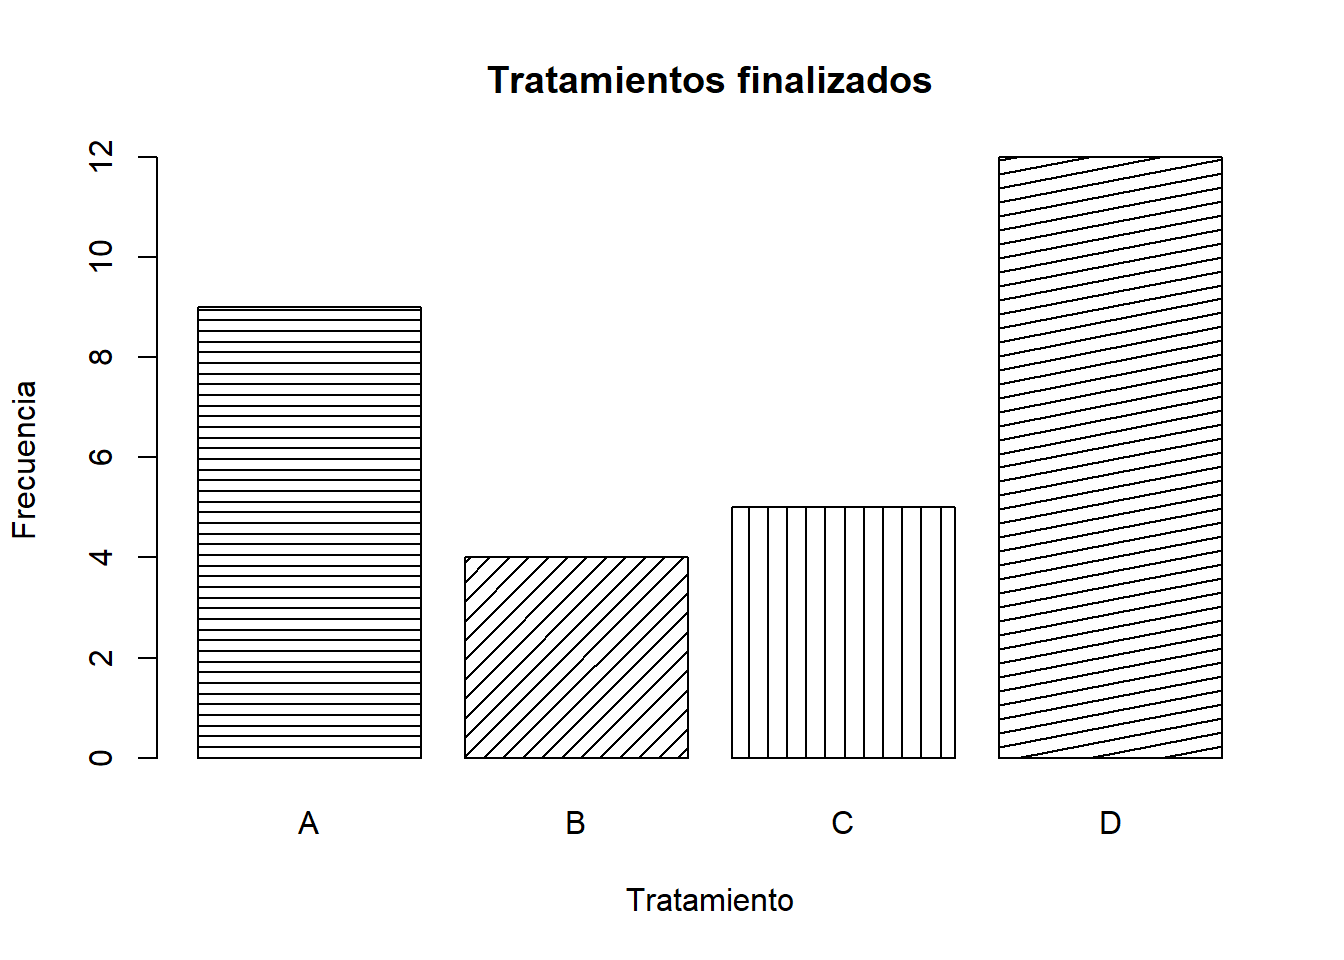
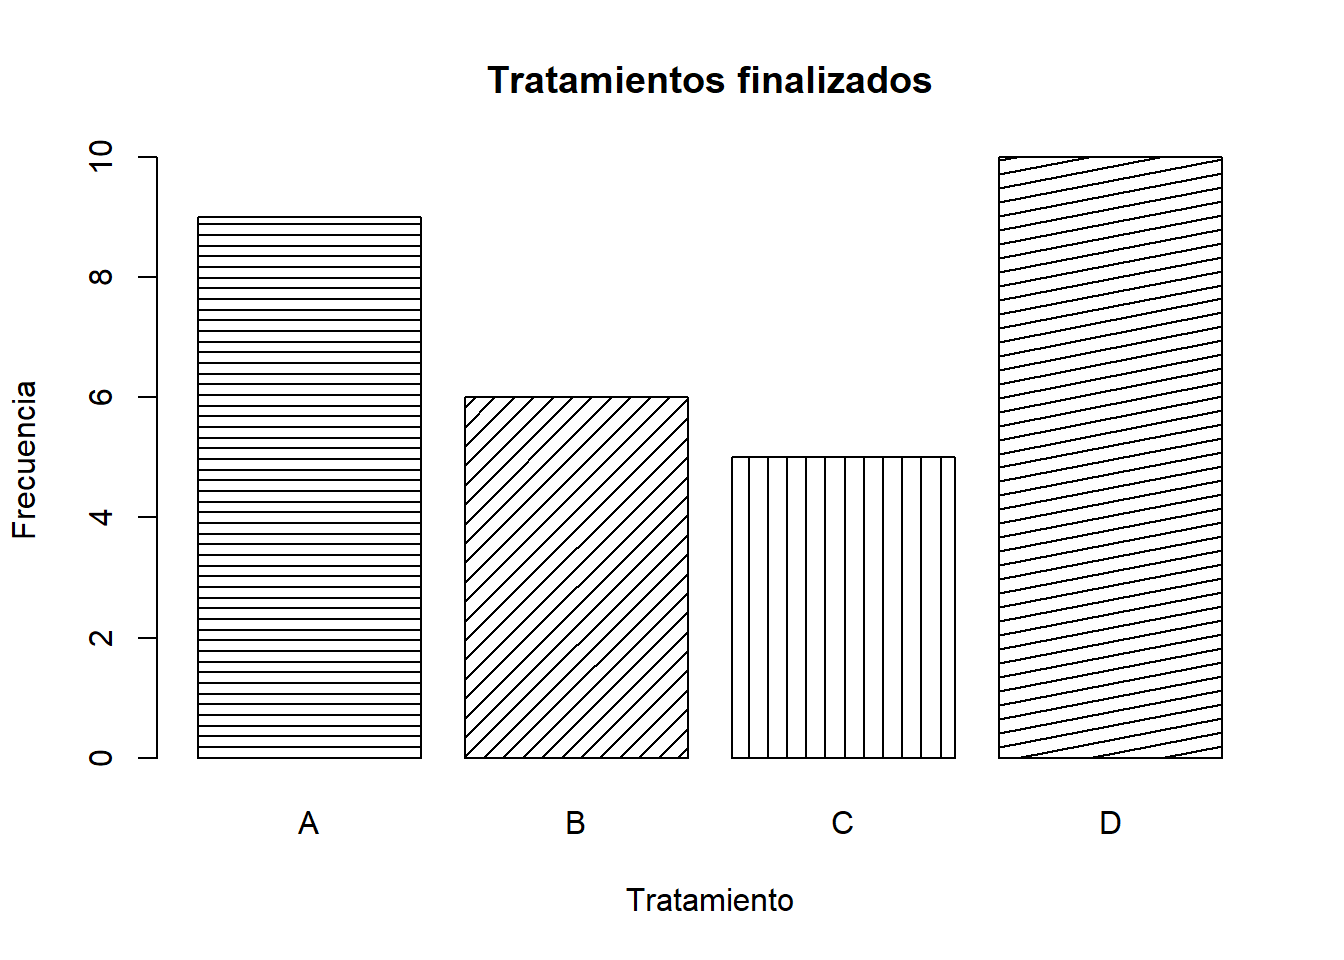
mudanca nas figuras postagem Eliana

diff --git a/content/blog/2022-05-24-mejor-digalo-con-graficos/index.html b/content/blog/2022-05-24-mejor-digalo-con-graficos/index.html
@@ -47,7 +47,7 @@ frec.tratam &lt;- table(tratamiento)
 frec.tratam</code></pre>
 <pre><code>## tratamiento
 ##  A  B  C  D 
-##  9  4  5 12</code></pre>
+##  9  6  5 10</code></pre>
 <p>Por último graficamos.</p>
 <pre class="r"><code>barplot(frec.tratam)</code></pre>
 <p><img src="{{< blogdown/postref >}}index_files/figure-html/unnamed-chunk-2-1.png" width="672" /></p>
@@ -174,5 +174,5 @@ ggplot(datos) + # defino el data set con el que voy a trabajar
 <div id="y-fín" class="section level2">
 <h2>¡Y FÍN!</h2>
 <p>Pero cuéntanos, ¿Te gusta trabajar con gráficos? ¿Cuál es tu favorito? ¿Cuál quieres ver aquí en el blog? ¡Deja la sugerencia en nuestras redes sociales (<a href="https://twitter.com/somaquadrados">twitter</a>/<a href="https://www.instagram.com/somaquadrados/">instagram</a>).</p>
-<p><img src="f4df7d10fc40431b6a0cecb773e85debe2121f161fa056094a3ec1da0b54070b_1.jpg" /></p>
+<p><img src="featured.jpg" /></p>
 </div>
